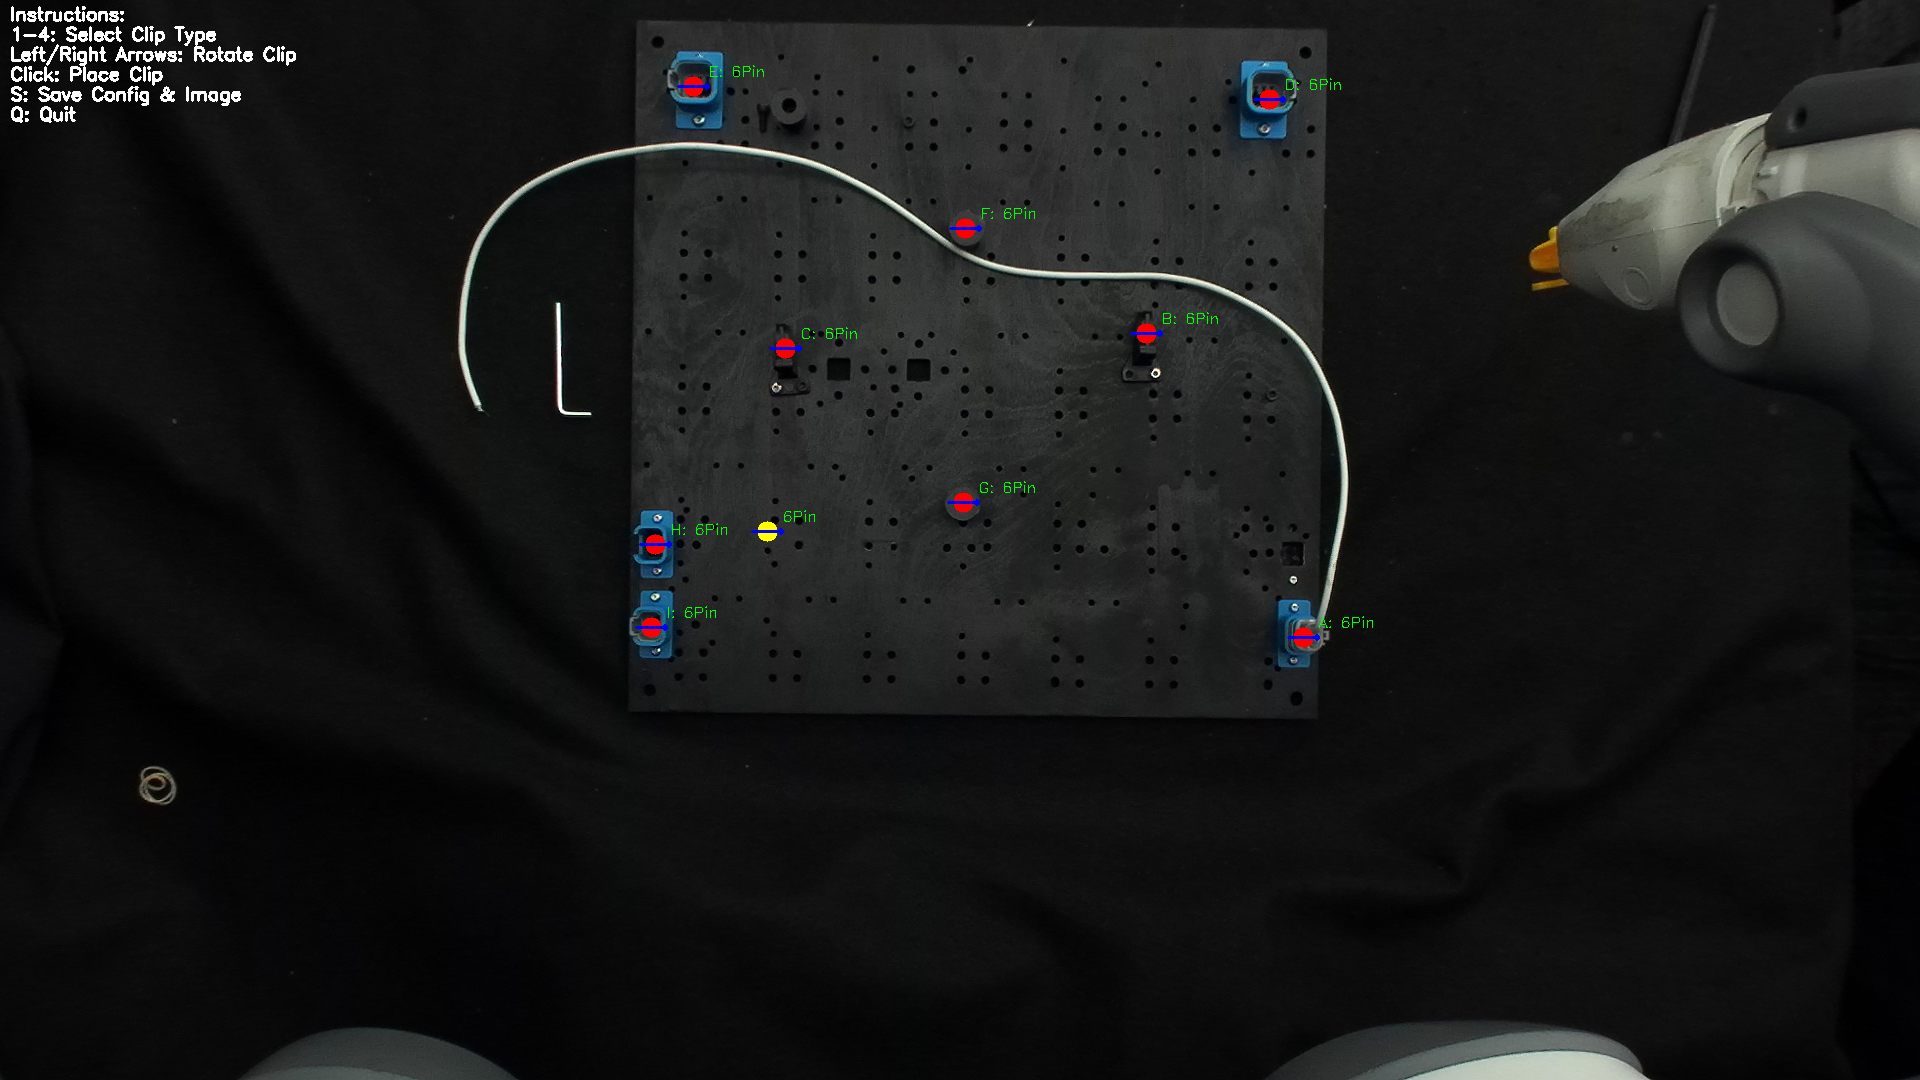
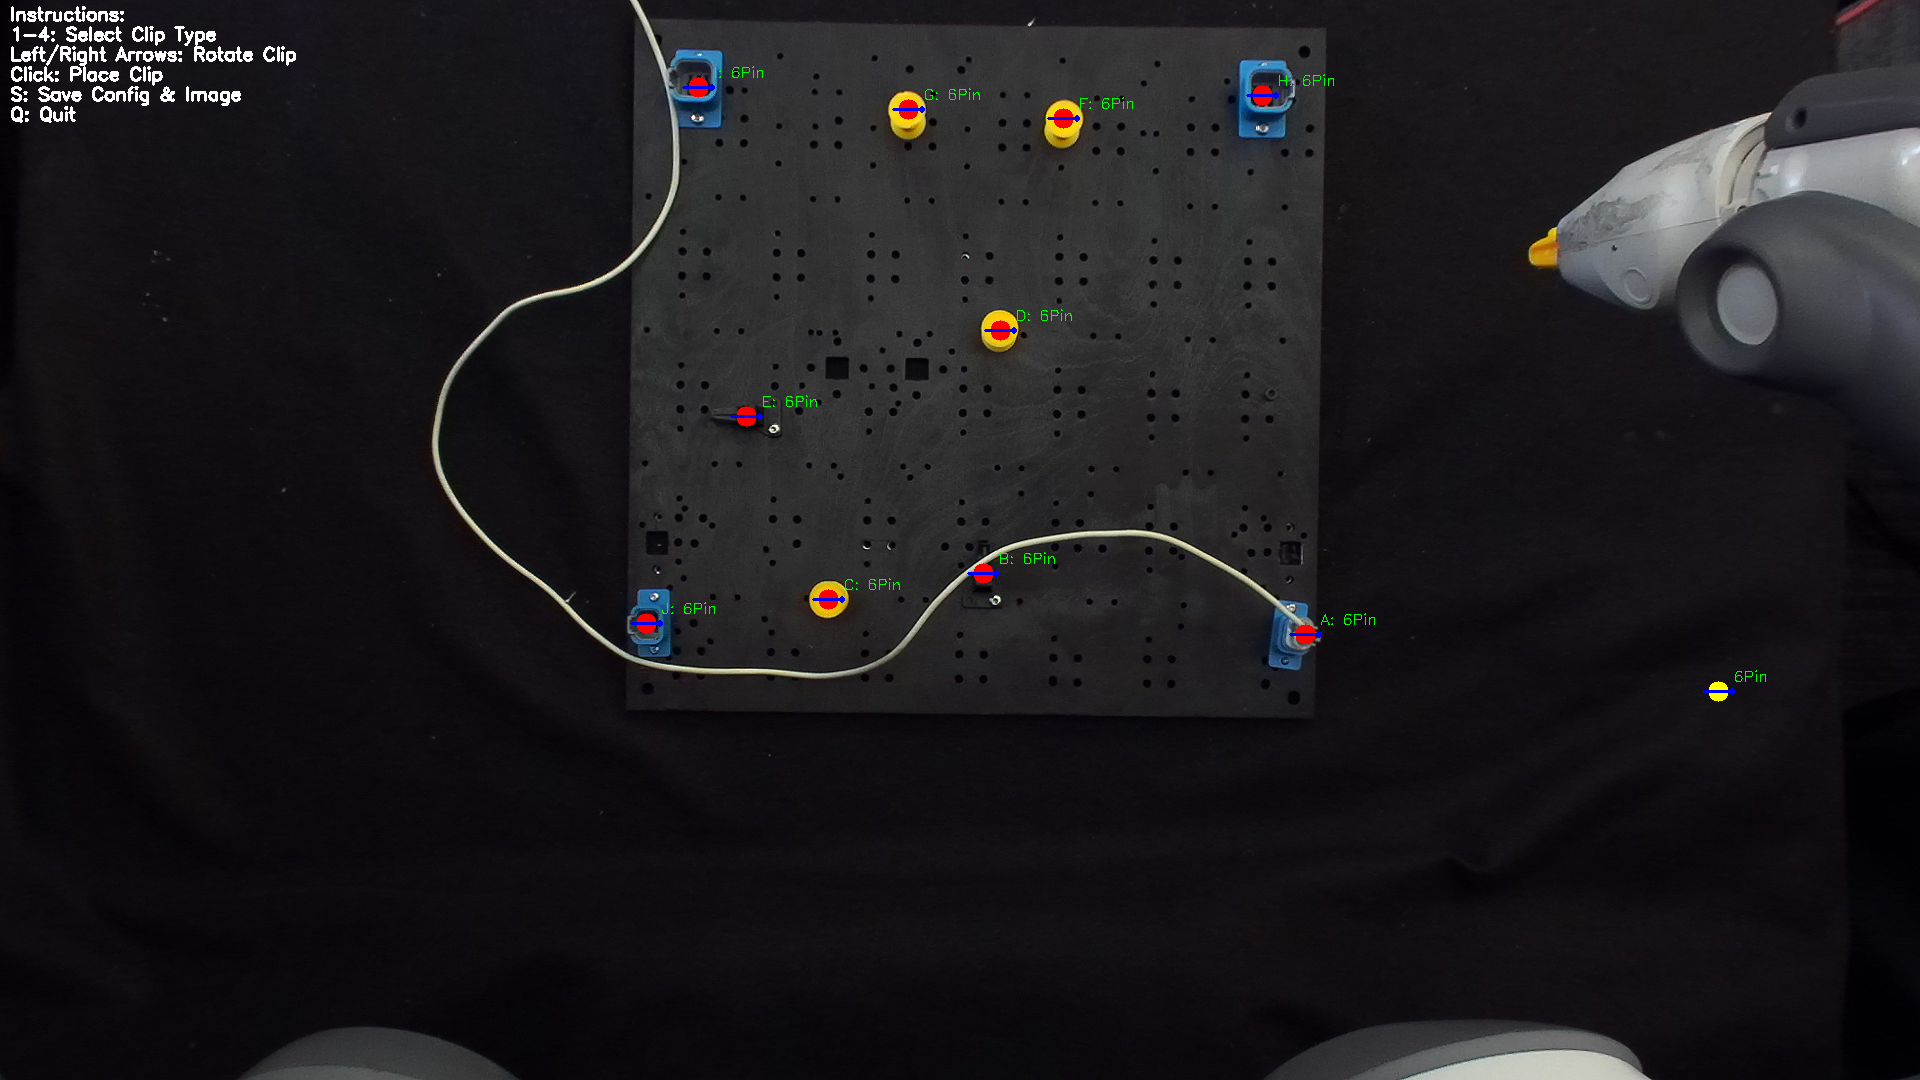
done with dual arm experiments :)

diff --git a/cable_routing/env/env.py b/cable_routing/env/env.py
@@ -170,7 +170,7 @@ class ExperimentEnv:
         cable_orientations = np.unwrap(cable_orientations)
         cable_orientations = np.mod(cable_orientations, 2 * np.pi).tolist()
 
-        if display:
+        if display and False:
             path_arr = np.array(path_in_world)
 
             plt.figure(figsize=(10, 8))
@@ -221,15 +221,31 @@ class ExperimentEnv:
         cable_orientations,
         arm,
         idx=None,
+        start_clip_id="A",
         display=False,
+        user_pick=False,
     ):
+        offset_distance = 100
 
-        if idx is None:
+        if idx is None and user_pick:
             frame = self.zed_cam.get_rgb()
             move_to_pixel = pick_target_on_path(frame, path)
             move_to_pixel, idx = find_nearest_point(path, move_to_pixel)
         else:
-            move_to_pixel = path[idx]
+            # move_to_pixel = path[idx]
+            clip_positions = [
+                np.array([clip["x"], clip["y"]])
+                for clip in self.board.get_clips().values()
+            ]
+            nearest_clip = self.board.get_clips()[start_clip_id]
+            nearest_clip = np.array([nearest_clip["x"], nearest_clip["y"]])
+            start_trace = np.array(path[0])
+            direction = (start_trace - nearest_clip) / np.linalg.norm(
+                start_trace - nearest_clip
+            )
+            move_to_pixel, idx = find_nearest_point(
+                path, nearest_clip + direction * offset_distance
+            )
 
         world_coord = get_world_coord_from_pixel_coord(
             move_to_pixel,
@@ -317,9 +333,9 @@ class ExperimentEnv:
             # find the nearest clip to trace
 
             offset_distance = 100
-            min_distance = 200
+            min_distance = 300  # 150
             jump = 20
-            exclusion_radius = 10
+            exclusion_radius = 50
 
             clip_positions = [
                 np.array([clip["x"], clip["y"]])
@@ -603,7 +619,12 @@ class ExperimentEnv:
         """
 
     def route_cable(
-        self, routing: list, primary_arm="right", display=False, dual_arm=True
+        self,
+        routing: list,
+        primary_arm="right",
+        display=False,
+        dual_arm=True,
+        save_viz=False,
     ):
         """
         routing is a list of the clips in order
@@ -616,7 +637,7 @@ class ExperimentEnv:
         start_clip, end_clip = clips[routing[0]], clips[routing[-1]]
 
         path_in_pixels, path_in_world, cable_orientations = self.update_cable_path(
-            display=False,
+            display=save_viz,
             arm=primary_arm,
             # start_points=[start_clip["x"], start_clip["y"]],
         )
@@ -641,7 +662,6 @@ class ExperimentEnv:
                     cable_orientations,
                     arm=primary_arm,  # idx=initial_grasp_idx
                     display=display,
-                    start_clip=routing[0],
                 )
             )
 
@@ -857,7 +877,6 @@ class ExperimentEnv:
                 plan["target_coord"],
                 cable_orientations,
                 arm=arm,
-                has_regrasped=has_regrasped,
             )
         else:
             # add Literal - both.
@@ -889,6 +908,8 @@ class ExperimentEnv:
         delta = {arm: [0, 0, 0.095], secondary_arm: [0, 0, 0]}
         self.robot.go_delta(left_delta=delta["left"], right_delta=delta["right"])
 
+        # self.robot.grippers_move_to(arm, distance=self.robot.gripper_opening)
+
         self.robot.set_speed("normal")
         self.robot.rotate_gripper(np.pi * direction, arm=arm)
         # self.robot.grippers_move_to(hand=arm, distance=10)
@@ -896,6 +917,7 @@ class ExperimentEnv:
         self.robot.set_speed("slow")
         self.robot.go_delta(left_delta=delta["left"], right_delta=delta["right"])
         self.robot.close_grippers(side=arm)
+        self.robot.set_speed("normal")
 
     def plan_slide_to_cable_node(
         self, path_in_pixel, idx, clip_id=None, arm=None, side="up", display=False
@@ -1135,7 +1157,7 @@ class ExperimentEnv:
         current_pose = eefs_pose[0 if arm == "left" else 1]
         second_pose = eefs_pose[1 if arm == "left" else 0]
 
-        x_min, x_max = 0.0, 0.55
+        x_min, x_max = 0.0, 0.6
         y_min, y_max = -0.4, 0.4
         z_min, z_max = 0.0, 0.3
 
@@ -1196,7 +1218,7 @@ class ExperimentEnv:
         # Open gripper slightly -- fix!
         # self.robot.close_grippers()
         self.robot.grippers_move_to(s_arm, distance=self.robot.gripper_opening - 2)
-        self.robot.grippers_move_to(arm, distance=self.robot.gripper_opening)
+        self.robot.grippers_move_to(arm, distance=self.robot.gripper_opening - 2)
 
         # calc only w.r.t the first arm
         # cur_rot = np.deg2rad(self.robot.get_gripper_rotation(arm))
@@ -1285,10 +1307,10 @@ class ExperimentEnv:
         # Move to the first waypoint at the correct height
         # self.robot.set_speed("slow")
 
-        poses = [
-            RigidTransform(translation=waypoint, rotation=current_pose.rotation)
-            for waypoint in [current_pose.translation, waypoints[0]]
-        ]
+        # poses = [
+        #     RigidTransform(translation=waypoint, rotation=current_pose.rotation)
+        #     for waypoint in [current_pose.translation, waypoints[0]]
+        # ]
 
         # poses_secondary = [
         #     RigidTransform(translation=waypoint, rotation=second_pose.rotation)
@@ -1302,12 +1324,17 @@ class ExperimentEnv:
             for wp in waypoints_secondary
         ]
         # move secondary arm before moving primary arm to reduce the likelihood of cable tangling
-        self.robot.plan_and_execute_linear_waypoints(
-            s_arm, waypoints=poses_secondary[0:3]
-        )
+        try:
+            self.robot.plan_and_execute_linear_waypoints(
+                s_arm, waypoints=poses_secondary[0:3]
+            )
+        except:
+            print("failed second arm motion")
 
-        self.robot.plan_and_execute_linear_waypoints(arm, waypoints=poses)
-
+        try:
+            self.robot.plan_and_execute_linear_waypoints(arm, waypoints=poses)
+        except:
+            print("failed primary arm motion")
         self.robot.set_speed("normal")
 
         # Align orientation to the first waypoint
@@ -1322,8 +1349,11 @@ class ExperimentEnv:
                 @ RigidTransform.z_axis_rotation(-eef_orientations[0]),
             ),
         ]
-        self.robot.plan_and_execute_linear_waypoints(arm, waypoints=poses)
 
+        try:
+            self.robot.plan_and_execute_linear_waypoints(arm, waypoints=poses)
+        except:
+            print("failed primary arm motion")
         # Follow the full path
         poses = [
             RigidTransform(
@@ -1366,15 +1396,21 @@ class ExperimentEnv:
             #         waypoints=(poses[i : i + 3], poses_secondary[i : i + 3]),
             #     )
 
-            self.robot.plan_and_execute_linear_waypoints(
-                arm, waypoints=poses[i : i + 3]
-            )
+            try:
+
+                self.robot.plan_and_execute_linear_waypoints(
+                    arm, waypoints=poses[i : i + 3]
+                )
+            except:
+                print("failed primary arm motion")
 
             if not i + 4 > len(poses_secondary):
-                self.robot.plan_and_execute_linear_waypoints(
-                    s_arm, waypoints=poses_secondary[i + 1 : i + 4]
-                )
-
+                try:
+                    self.robot.plan_and_execute_linear_waypoints(
+                        s_arm, waypoints=poses_secondary[i + 1 : i + 4]
+                    )
+                except:
+                    print("failed secondary arm motion")
             # actual_pose_primary = self.robot.get_ee_pose()[0 if arm == "left" else 1]
             # actual_pose_secondary = self.robot.get_ee_pose()[
             #     1 if s_arm == "left" else 0
@@ -1391,10 +1427,13 @@ class ExperimentEnv:
             # print(f"  Primary Pose deviation = {error_primary:.4f} meters")
             # print(f"  Secondary Pose deviation = {error_secondary:.4f} meters")
 
-        self.robot.set_ee_pose(
-            left_pose=(poses[-1] if arm == "left" else poses_secondary[-1]),
-            right_pose=(poses[-1] if arm == "right" else poses_secondary[-1]),
-        )
+        try:
+            self.robot.set_ee_pose(
+                left_pose=(poses[-1] if arm == "left" else poses_secondary[-1]),
+                right_pose=(poses[-1] if arm == "right" else poses_secondary[-1]),
+            )
+        except:
+            print("failed final motion")
         # for start_pose, end_pose in zip(poses, poses[1:]):
         #     self.robot.plan_and_execute_linear_waypoints(
         #         arm, waypoints=[start_pose, end_pose]

diff --git a/cable_routing/scripts/simple_test.py b/cable_routing/scripts/simple_test.py
@@ -18,22 +18,21 @@ def main(args: ExperimentConfig):
             Trace using handloom a little bit down the cable and grasp (so you don't grasp right next to the clip)
                 Grasp with enough closure to grab the cable but not enough to hold it in place (allow the cable to slip in the gripper)
 
-        Next:
+        Next:4
             Plan out the desired motion path through all the clips
                 We know clip orientations so need to plan out how to route around each clip in the correct way
                 Can add in the bungee style clips and have the gripper go through them
 
         Execute this motion with a single arm (no dual arm needed for the task)
     """
-    import numpy as np
 
-    MIN_DIST = 0.07  # minimum distance from a clip when doing the first grasp (in m)
     rospy.init_node("pick_nic")
     env = ExperimentEnv(args)
+    env.robot.open_grippers()
     # exit()0
     # print(env.robot.get_gripper_rotation("left"))
     # env.regrasp(arm="left", direction=-1)
-    # print(env.robot.get_gripper_rotation("left"))
+    # print(env.robot.get_gripper_rotation("left   "))
     # exit()
     # env.regrasp(arm="right", direction=-1)
     # env.regrasp(arm="right", direction=-1)
@@ -41,9 +40,12 @@ def main(args: ExperimentConfig):
     # print(env.robot.get_joint_values())
     # exit()
 
-    routing = ["A", "B", "C", "H"]
-
-    print(env.route_cable(routing, display=False, dual_arm=True, primary_arm="right"))
+    routing = ["A", "B", "C", "E", "F", "I"]
+    print(
+        env.route_cable(
+            routing, display=False, dual_arm=False, primary_arm="right", save_viz=False
+        )
+    )
     exit()
     # clips = env.board.get_clips()
     # print(env.board.get_clips())
@@ -62,6 +64,7 @@ def main(args: ExperimentConfig):
     # while curr_dist < MIN_DIST:
     #     initial_grasp_idx += 1
     #     curr_dist = distance(
+
     #         path_in_world[initial_grasp_idx], [start_clip["x"], start_clip["y"]]
     #     )
 

diff --git a/cable_routing/env/ext_camera/ros/exp_logger.py b/cable_routing/env/ext_camera/ros/exp_logger.py
@@ -7,6 +7,8 @@ from std_msgs.msg import String
 from datetime import datetime
 from cable_routing.env.ext_camera.ros.brio_subscriber import BRIOSubscriber
 from cable_routing.env.ext_camera.ros.zed_camera import ZedCameraSubscriber
+from cable_routing.env.board.new_board import Board
+from cable_routing.configs.envconfig import ExperimentConfig
 
 
 class CameraDataCollector:
@@ -137,14 +139,12 @@ class CameraDataCollector:
 
 
 if __name__ == "__main__":
+
     save_dir = "/home/osheraz/cable_routing/records"
+    exp_config = ExperimentConfig
 
-    class DummyBoard:
-        def get_clips(self):
-            return {"clip_1": [1, 2, 3], "clip_2": [4, 5, 6]}
-
-    board = DummyBoard()
-    plan = ["Step 1", "Step 2", "Step 3"]
+    board = Board(config_path=exp_config.board_cfg_path)
+    plan = ["A", "B", "C", "H"]
 
     collector = CameraDataCollector(
         save_directory=save_dir,

diff --git a/cable_routing/env/robots/yumi.py b/cable_routing/env/robots/yumi.py
@@ -10,7 +10,7 @@ import time
 
 
 class YuMiRobotEnv:
-    def __init__(self, robot_config, speed=0.2):
+    def __init__(self, robot_config, speed=0.15):
         print("[YUMI_JACOBI] Initializing YuMi...")
 
         self.robot_config = robot_config
@@ -334,7 +334,8 @@ class YuMiRobotEnv:
     ) -> None:
         """ """
 
-        self.open_grippers(arm)
+        self.grippers_move_to(arm, distance=10)
+
         print(f"Moving {arm} arm to the target position.")
         # Move above the target
         rot = RigidTransform.x_axis_rotation(-np.pi) @ RigidTransform.z_axis_rotation(

diff --git a/cable_routing/algo/astar_board_planner.py b/cable_routing/algo/astar_board_planner.py
@@ -15,7 +15,7 @@ class BoardPlanner:
         config_path=None,
         resolution=20.0,
         robot_radius=20.0,
-        inflation_radius=30.0,
+        inflation_radius=40.0,
         show_animation=False,
     ):
         self.show_animation = show_animation

diff --git a/cable_routing/env/ext_camera/utils/img_utils.py b/cable_routing/env/ext_camera/utils/img_utils.py
@@ -205,7 +205,7 @@ def get_world_coord_from_pixel_coord(
     cam_intrinsics,
     cam_extrinsics,
     image_shape=None,
-    table_depth=0.8395,
+    table_depth=0.83815,  # 9
     depth_map=None,
     neighborhood_radius=10,
     display=False,
